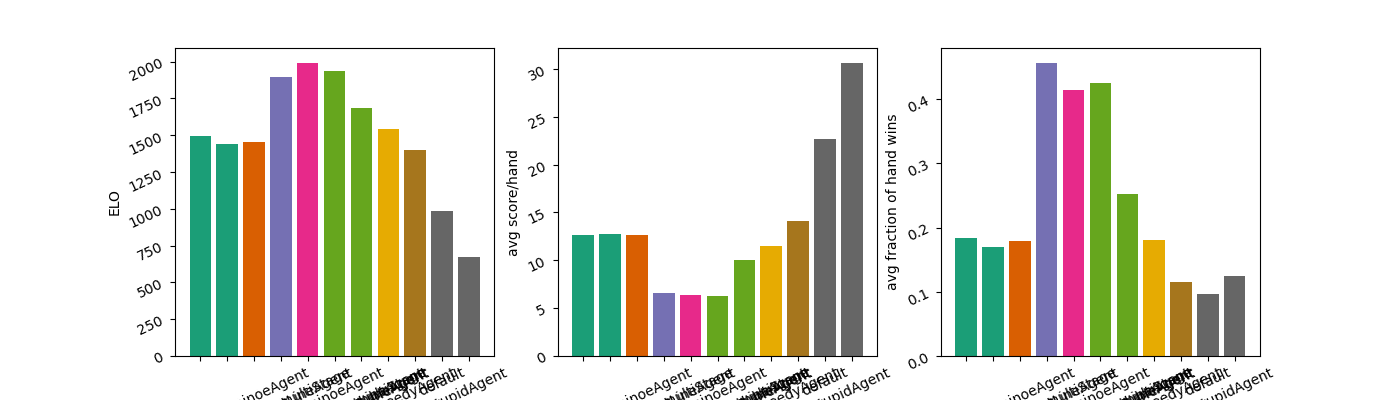
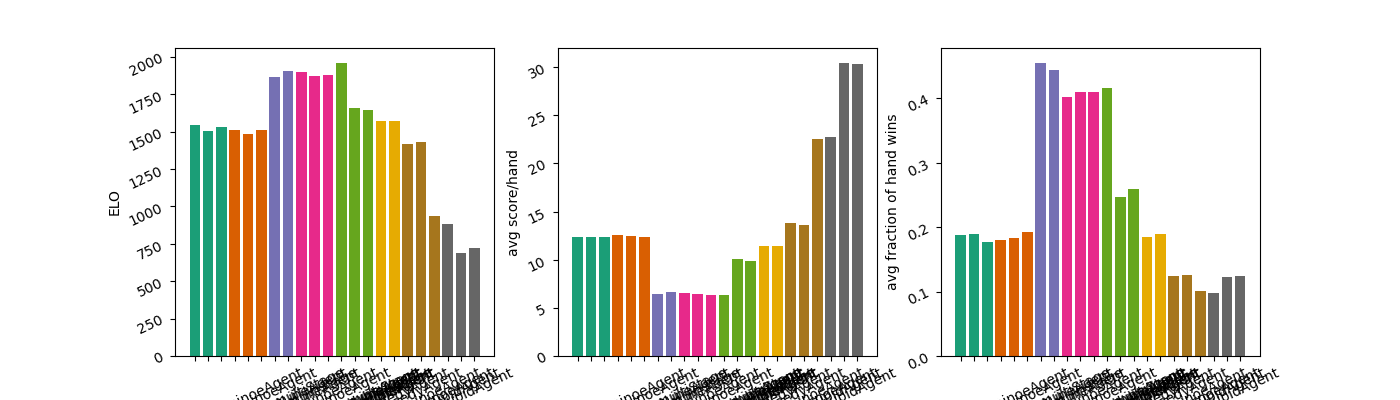
Working on plotting valueAgentELOs.py

diff --git a/experiments/valueAgentELOs.py b/experiments/valueAgentELOs.py
@@ -156,13 +156,20 @@ def estimateELO(numGames, numRounds):
 
 
 # And a function for plotting results
-def plotResults(results):
-    numAgents = len(results['averageScore'])
+def plotResults(results, args):
+    elo = np.mean(results['elo'].reshape(-1, args.num_each), axis=1)
+    averageScore = np.mean(results['averageScore'].reshape(-1, args.num_each), axis=1)
+    averageHandWins = np.mean(results['averageHandWins'].reshape(-1, args.num_each), axis=1)
+    trackedElo = np.mean(results['trackedElo'].T.reshape(-1, args.num_each, args.num_games),axis=1)
+    
+    names = results['names'][::args.num_each]
+    
+    numAgents = len(names)
     
     # Show plot of tracked ELO trajectories to make sure it reached asymptotic ELO ratings
     f1 = plt.figure(1)
-    for name, elo in zip(results['names'], results['trackedElo'].T):
-        plt.plot(range(args.num_games), elo, label=name)
+    for name, telo in zip(names, trackedElo):
+        plt.plot(range(args.num_games), telo, label=name)
     plt.ylim(0)
     plt.legend(loc='best')
     plt.show()
@@ -174,17 +181,17 @@ def plotResults(results):
     
     f2,ax = plt.subplots(1,3,figsize=(14,4))
 
-    ax[0].bar(x=range(numAgents), height=results['elo'], color=colors, tick_label=results['names'])
+    ax[0].bar(x=range(numAgents), height=elo, color=colors, tick_label=names)
     ax[0].tick_params(labelrotation=25)
     ax[0].set_ylim(0)
     ax[0].set_ylabel('ELO')
     
-    ax[1].bar(x=range(numAgents), height=results['averageScore'], color=colors, tick_label=results['names'])
+    ax[1].bar(x=range(numAgents), height=averageScore, color=colors, tick_label=names)
     ax[1].tick_params(labelrotation=25)
     ax[1].set_ylim(0)
     ax[1].set_ylabel('avg score/hand')
     
-    ax[2].bar(x=range(numAgents), height=results['averageHandWins'], color=colors, tick_label=results['names'])
+    ax[2].bar(x=range(numAgents), height=averageHandWins, color=colors, tick_label=names)
     ax[2].tick_params(labelrotation=25)
     ax[2].set_ylim(0)
     ax[2].set_ylabel('avg fraction of hand wins')
@@ -218,7 +225,7 @@ if __name__=='__main__':
         
         results = np.load(resPath / (getFileName()+'.npy'), allow_pickle=True).item()
         
-    plotResults(results)
+    plotResults(results, args)
         
     print(f"ELO: {results['elo']}")
     print(f"AvgScore: {results['averageScore']}")
